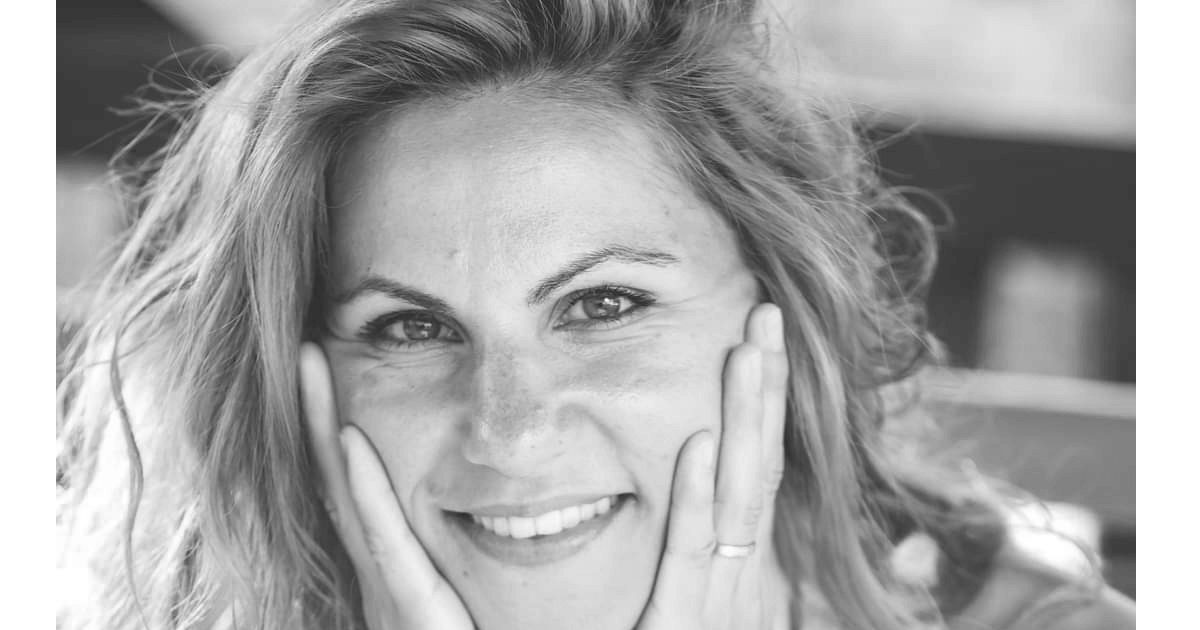
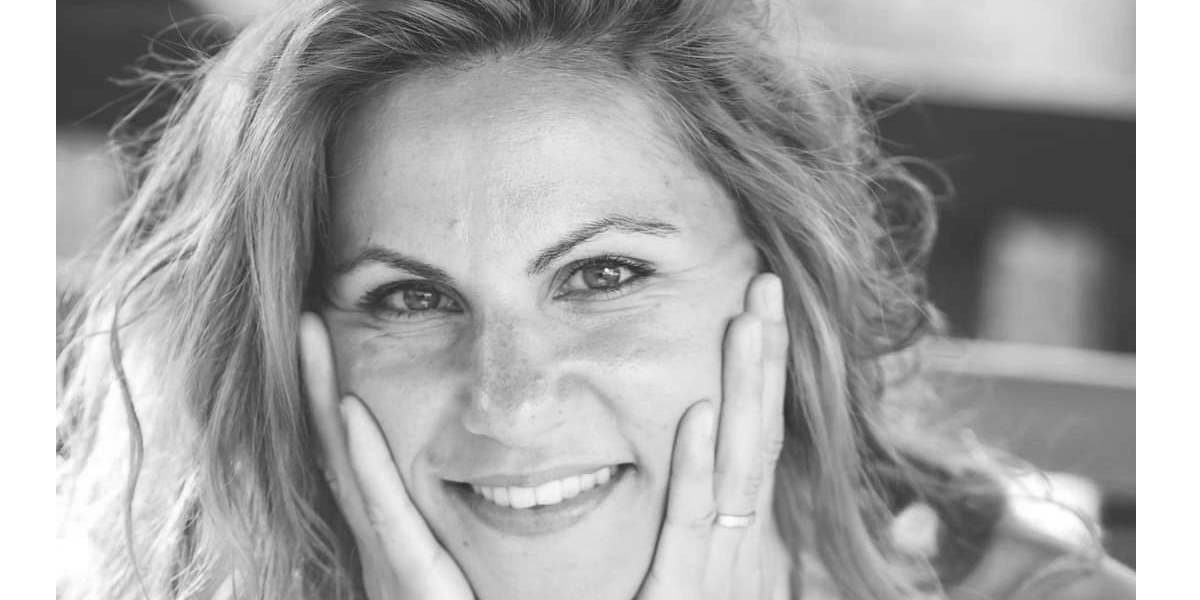
og image

diff --git a/index.html b/index.html
@@ -17,9 +17,9 @@
         <meta property="og:type" content="website"/>
         <meta property="og:locale" content="en_US"/>
         <meta property="og:url" content="https://sioanaseres.github.io/ioana-seres-portfolio/"/>
-        <meta property="og:image" content="https://s7.gifyu.com/images/og-image.png"/>
-        <!-- <meta property="og:image:width" content="1200"/>
-        <meta property="og:image:height" content="630"/>
+         <meta property="og:image" content="https://s7.gifyu.com/images/og-imagef067991e2a404c5b.png" />
+        <meta property="og:image:width" content="1200" />
+        <meta property="og:image:height" content="600" />
         <meta property="og:image:alt" content="Ioana Cosoreanu Seres | Portfolio Page"/> -->
         <meta property="article:publisher" content="www.facebook.com"/>
         <meta property="article:section" content="portfolio"/>
